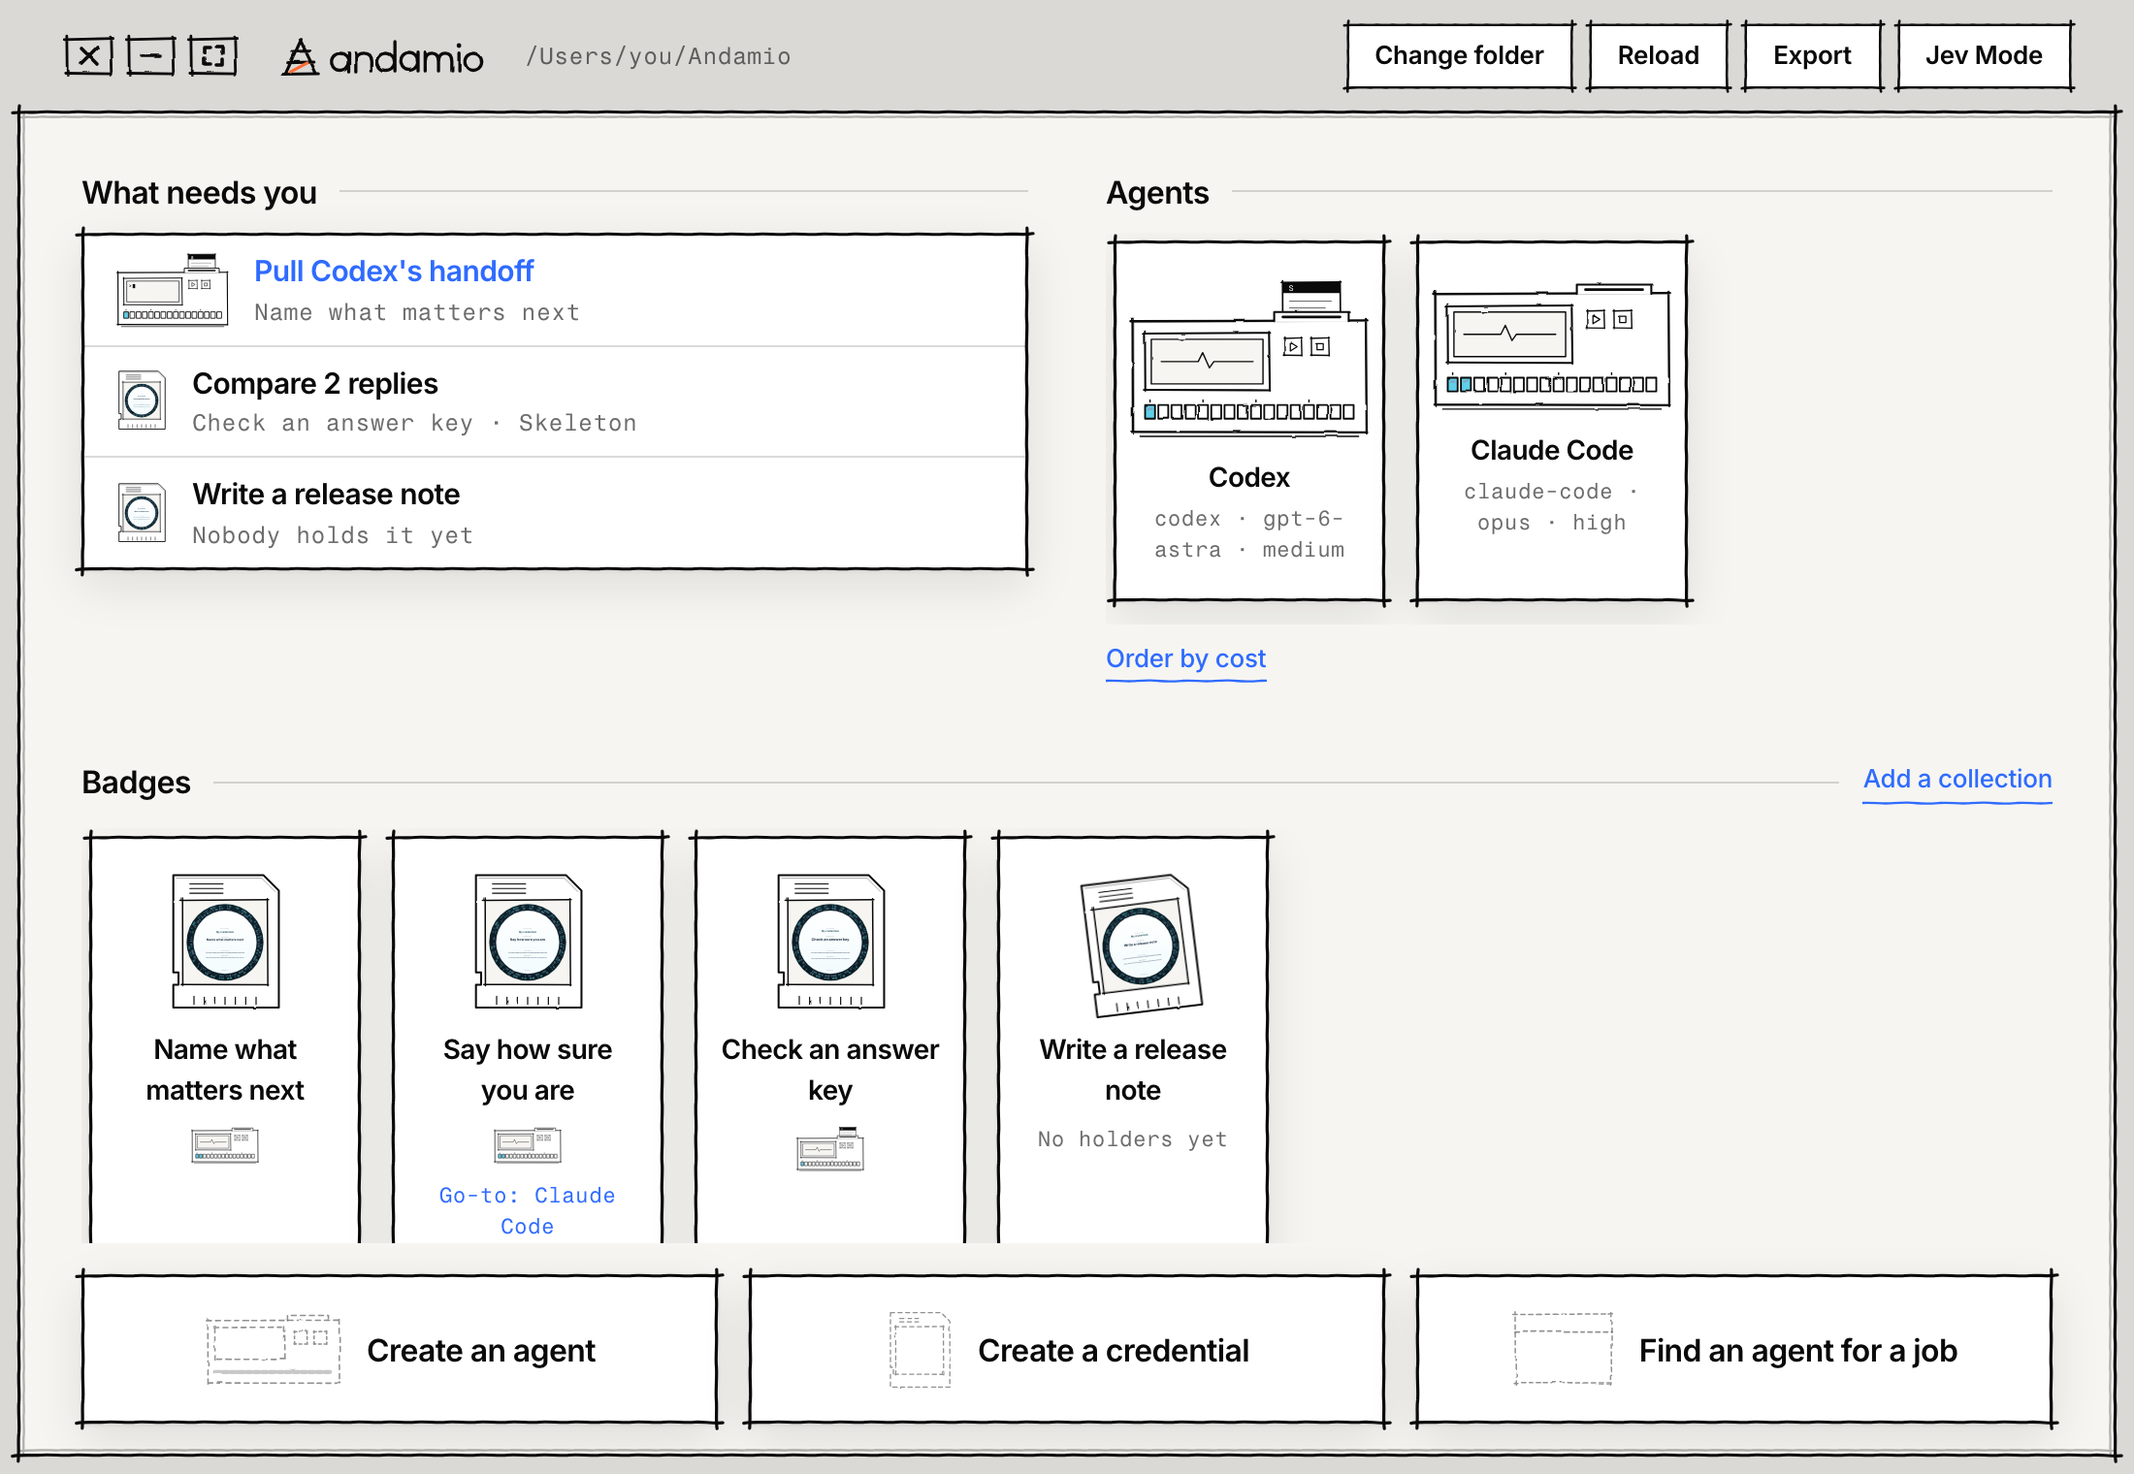
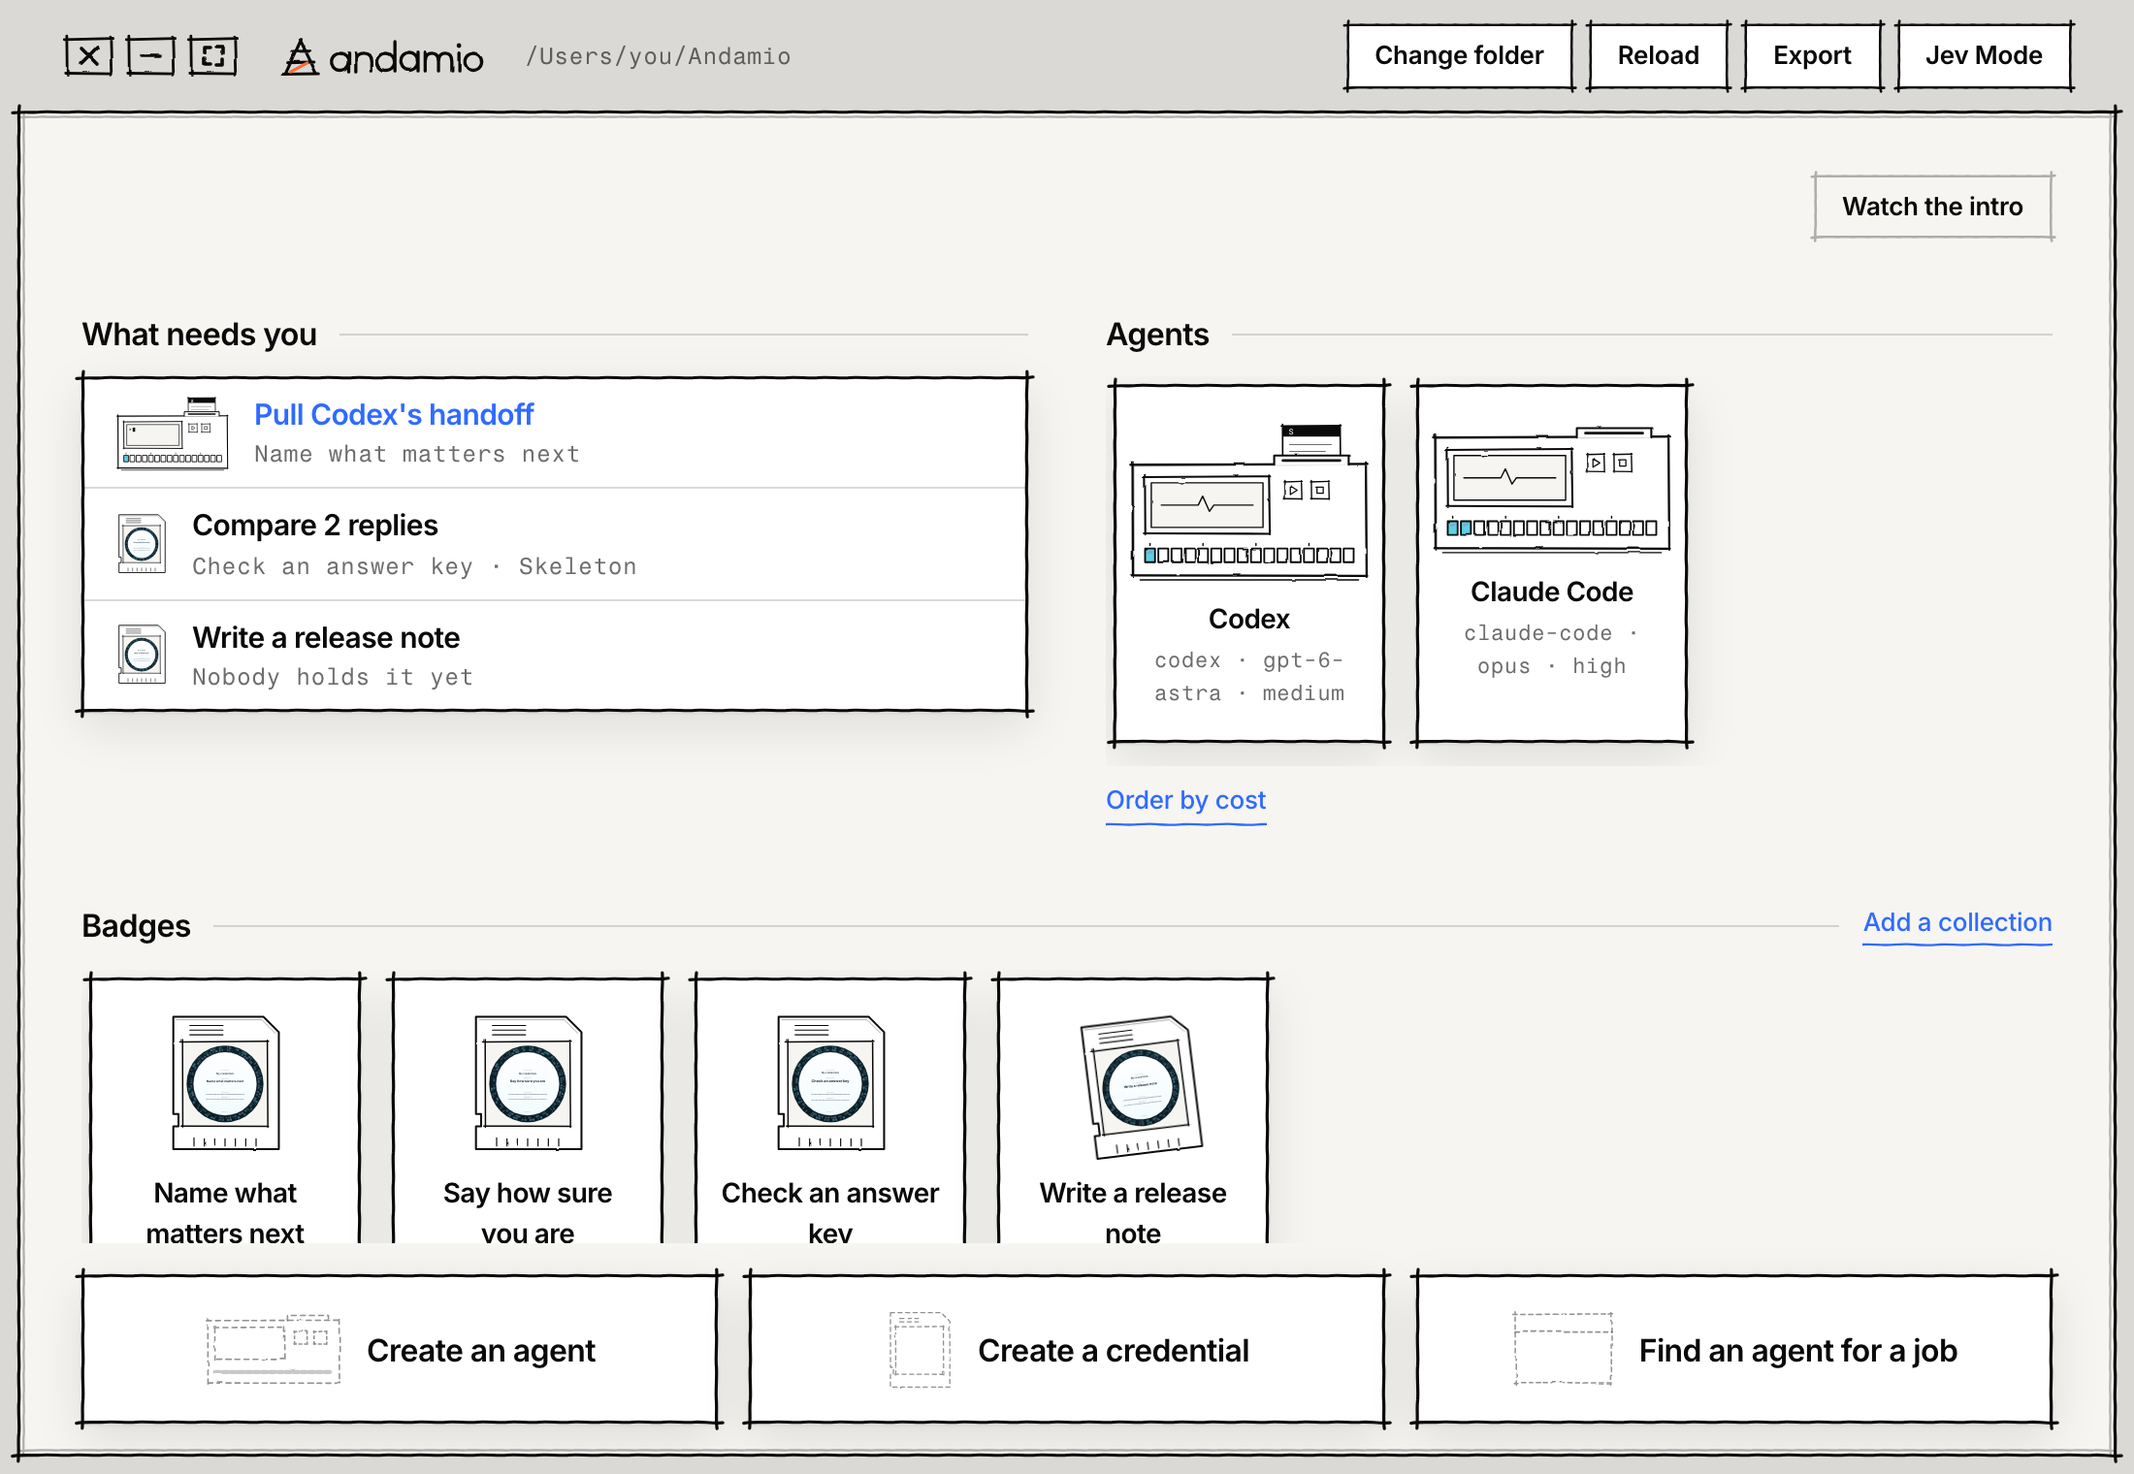
docs(guide): describe the intro and the new first run, with new and reshot screenshots

diff --git a/src/shots/shots.ts b/src/shots/shots.ts
@@ -1,6 +1,6 @@
 // The screenshot manifest (U3, U4, KTD6, KTD7, R19, R20): every picture in the user guide,
-// as data. Each shot names the guide page it illustrates, where the app opens (a route, or
-// the first-run gate), the sample folder it opens over, Jev Mode's state, what must be on
+// as data. Each shot names the guide page it illustrates, where the app opens (a route, the
+// first run's title card, or the folder gate), the sample folder it opens over, Jev Mode's state, what must be on
 // screen for the picture to count (`expect`), an optional clip and optional in-page steps.
 // `npm run site:shots` renders each one to site/public/shots/<id>.png through shots.html.
 //
@@ -76,13 +76,21 @@ export interface Clip {
  */
 export const SHOT_SCALE = 2;
 
+/** The two places a shot opens before any folder: the first run's title card, or the folder gate. */
+export type ShotStart = "intro" | "gate";
+
 export interface Shot {
   /** The picture's file name under site/public/shots, kebab-case and unique. */
   id: string;
   /** The guide page it illustrates, as that page's entry id. */
   page: `${PartId}/${string}`;
-  /** Where the app opens: a route, or "gate" for the first-run folder screen. */
-  route: Route | "gate";
+  /**
+   * Where the app opens: a route; "intro" for a first run, at the intro's title card (no
+   * folder ever remembered); or "gate" for the folder gate with no intro, as a remembered
+   * folder that has gone missing opens. Under the harness's reduced motion the intro shows
+   * its stills, which a shot steps through with Next.
+   */
+  route: Route | ShotStart;
   seed: SeedVariant;
   jev: JevState;
   expect: Expect;
@@ -339,14 +347,100 @@ const CASE_TO_READING: readonly Step[] = [
   { waitFor: { text: "Cut-offs fitted to your verdicts" } },
 ];
 
+/**
+ * How many stills the intro steps through under reduced motion (SCENES in
+ * src/intro/timeline.ts, spelled out so this file stays plain data; shots.test.ts checks it).
+ * Next on the last one ends the film.
+ */
+export const SCENE_COUNT = 5;
+
+/** The newcomer's line on the play beat, in the first run's pictures. Six words or fewer, so the badge's name is the whole line. */
+const FIRST_LINE = "Every fix ships with a test";
+
+/** The first run from the title card, still by still under reduced motion, to the play beat. */
+const INTRO_TO_PLAY: readonly Step[] = [
+  { click: { button: "Begin" } },
+  ...Array.from({ length: SCENE_COUNT }, () => ({ click: { button: "Next" } })),
+  { waitFor: { text: "What would a good result look like" } },
+];
+
+/** On from the play beat, with the line typed, to the folder gate that will save it. */
+const INTRO_TO_GATE: readonly Step[] = [
+  ...INTRO_TO_PLAY,
+  { fill: { label: "What good looks like" }, value: FIRST_LINE },
+  { click: { button: "Make it a badge" } },
+  { waitFor: { text: "Choose folder" } },
+];
+
+/** On from the gate to Home, where the badge the line became has its row lit. */
+const INTRO_TO_HOME: readonly Step[] = [...INTRO_TO_GATE, { click: { button: "Choose folder" } }, { waitFor: { selector: ".need.lit" } }];
+
 export const SHOTS: readonly Shot[] = [
   {
+    id: "intro-title",
+    page: "getting-started/intro",
+    route: "intro",
+    seed: "empty",
+    jev: "off",
+    expect: { text: "Begin" },
+    // Begin is enabled once the film has loaded behind the card.
+    steps: [{ waitFor: { selector: ".intro-title button.primary:not([disabled])" } }],
+  },
+  {
+    // The third still: what good looks like.
+    id: "intro-still",
+    page: "getting-started/intro",
+    route: "intro",
+    seed: "empty",
+    jev: "off",
+    expect: { text: "Next" },
+    steps: [{ click: { button: "Begin" } }, { click: { button: "Next" } }, { click: { button: "Next" } }],
+  },
+  {
+    id: "intro-play",
+    page: "getting-started/intro",
+    route: "intro",
+    seed: "empty",
+    jev: "off",
+    expect: { text: "Make it a badge" },
+    steps: [...INTRO_TO_PLAY, { fill: { label: "What good looks like" }, value: FIRST_LINE }],
+  },
+  {
+    // The gate after the play beat: the folder it picks is where the badge is saved.
     id: "first-run",
     page: "getting-started/your-folder",
-    route: "gate",
+    route: "intro",
     seed: "empty",
     jev: "off",
     expect: { text: "Choose folder" },
+    steps: INTRO_TO_GATE,
+  },
+  {
+    id: "folder-missing",
+    page: "help/when-something-breaks",
+    route: "gate",
+    seed: "empty",
+    jev: "off",
+    expect: { selector: ".gate-error" },
+  },
+  {
+    id: "first-badge-home",
+    page: "getting-started/first-test",
+    route: "intro",
+    seed: "empty",
+    jev: "off",
+    expect: { text: "Add its task" },
+    steps: INTRO_TO_HOME,
+  },
+  {
+    // The lit row opens the badge's task, with the prompt that asks an agent for one.
+    id: "first-badge-task",
+    page: "getting-started/first-test",
+    route: "intro",
+    seed: "empty",
+    jev: "off",
+    expect: { text: "Suggest a task" },
+    steps: [...INTRO_TO_HOME, { click: { selector: ".need.lit" } }, { waitFor: { text: "Suggest a task" } }],
   },
   {
     id: "home-empty",
@@ -1136,12 +1230,12 @@ export const SHOTS: readonly Shot[] = [
 /** Marks a route kind no shot pictures yet. */
 export const NOT_PICTURED = "not pictured";
 
-/** Every place the app can open: the gate, home, each deck and each item. */
-export type RouteKind = "gate" | "home" | `deck:${DeckRoute["deck"]}` | `item:${ItemRoute["item"]}`;
+/** Every place the app can open: the intro, the gate, home, each deck and each item. */
+export type RouteKind = ShotStart | "home" | `deck:${DeckRoute["deck"]}` | `item:${ItemRoute["item"]}`;
 
 /** A shot's route kind, as the coverage map keys it. */
-export function routeKind(route: Route | "gate"): RouteKind {
-  if (route === "gate") return "gate";
+export function routeKind(route: Route | ShotStart): RouteKind {
+  if (typeof route === "string") return route;
   if (route.view === "home") return "home";
   if (route.view === "deck") return `deck:${route.deck}`;
   return `item:${route.item}`;
@@ -1149,7 +1243,8 @@ export function routeKind(route: Route | "gate"): RouteKind {
 
 /** For each route kind, the shots that picture it, or NOT_PICTURED. Every shot is listed under its own kind. */
 export const COVERAGE: Record<RouteKind, readonly string[] | typeof NOT_PICTURED> = {
-  gate: ["first-run"],
+  intro: ["intro-title", "intro-still", "intro-play", "first-run", "first-badge-home", "first-badge-task"],
+  gate: ["folder-missing"],
   home: ["home-empty", "home", "home-needs", "router-door", "home-collections"],
   "deck:credential": ["credential-start", "credential-target"],
   "deck:agent": ["first-test-agent", "first-test-hand", "first-test-judge", "first-test-home", "agent-new"],

diff --git a/site/tests/content.test.ts b/site/tests/content.test.ts
@@ -4,7 +4,7 @@
 // src/shots/shots.ts, and the check fails on:
 //
 // - a <UI> label that no longer matches a string literal, template literal or JSX text in
-//   src/ui, src/domain or src/jev. Source is read through the TypeScript parser, so a label
+//   src/ui, src/domain, src/jev or src/intro. Source is read through the TypeScript parser, so a label
 //   that lives only in a comment never counts, and test files and test stubs are skipped.
 //   A templated label escapes its placeholder's braces (`Pull \{agent\}'s handoff`) and
 //   matches any `${…}` (or JSX `{…}`) in that place;
@@ -34,7 +34,7 @@ const SITE = join(ROOT, "site");
 const PUBLIC = join(SITE, "public");
 const SHOTS_DIR = join(PUBLIC, "shots");
 /** Where the app's labels live (KTD8). */
-const LABEL_DIRS = ["src/ui", "src/domain", "src/jev"];
+const LABEL_DIRS = ["src/ui", "src/domain", "src/jev", "src/intro"];
 
 // ---------------------------------------------------------------------------
 // Labels in the app's source
@@ -300,7 +300,7 @@ describe("the content check, on fixture pages", () => {
 
   it("fails a label the app does not show, naming the page and the label", () => {
     expect(check("Click <UI>Make the robot</UI>.\n")).toEqual([
-      "getting-started/fixture: <UI>Make the robot</UI> matches no label in src/ui, src/domain, src/jev",
+      "getting-started/fixture: <UI>Make the robot</UI> matches no label in src/ui, src/domain, src/jev, src/intro",
     ]);
   });
 
@@ -332,9 +332,9 @@ describe("the content check, on fixture pages", () => {
     const strict: Context = { ...ctx, labels: only };
     const problems = pageProblems({ id: "getting-started/fixture", text: FRONT() + "<UI>Make the robot</UI> <UI>Hand over the robot</UI> <UI>Robot card</UI> <UI>Keep me</UI>\n" }, strict);
     expect(problems).toEqual([
-      "getting-started/fixture: <UI>Make the robot</UI> matches no label in src/ui, src/domain, src/jev",
-      "getting-started/fixture: <UI>Hand over the robot</UI> matches no label in src/ui, src/domain, src/jev",
-      "getting-started/fixture: <UI>Robot card</UI> matches no label in src/ui, src/domain, src/jev",
+      "getting-started/fixture: <UI>Make the robot</UI> matches no label in src/ui, src/domain, src/jev, src/intro",
+      "getting-started/fixture: <UI>Hand over the robot</UI> matches no label in src/ui, src/domain, src/jev, src/intro",
+      "getting-started/fixture: <UI>Robot card</UI> matches no label in src/ui, src/domain, src/jev, src/intro",
     ]);
   });
 

diff --git a/src/shots/shots.test.ts b/src/shots/shots.test.ts
@@ -10,7 +10,8 @@ import type { Route } from "../ui/routes";
 import { PART_IDS } from "../../site/src/parts";
 import { startShot } from "./harness";
 import { sampleFolder, sampleStorage } from "./seed";
-import { COVERAGE, NOT_PICTURED, SAMPLE_IMAGES, SHOTS, routeKind, type Shot } from "./shots";
+import { SCENES } from "../intro/timeline";
+import { COVERAGE, NOT_PICTURED, SAMPLE_IMAGES, SCENE_COUNT, SHOTS, routeKind, type Shot, type ShotStart } from "./shots";
 
 const KEBAB = /^[a-z0-9]+(?:-[a-z0-9]+)*$/;
 
@@ -20,8 +21,8 @@ const CREDENTIAL_PARTS = ["name", "targets", "task", "rubric", "look"];
 const AGENT_PARTS = ["name", "repo", "notes", "params"];
 
 /** Why a route is not a Route the shell can open over this folder, or [] when it is. */
-function routeProblems(route: Route | "gate", state: FolderState): string[] {
-  if (route === "gate") return [];
+function routeProblems(route: Route | ShotStart, state: FolderState): string[] {
+  if (typeof route === "string") return [];
   const r = route as unknown as Record<string, unknown>;
   const out: string[] = [];
   const keys = new Set(state.credentials.map(credentialKey));
@@ -188,9 +189,15 @@ describe("the shot manifest", () => {
   });
 });
 
+describe("the intro's stills", () => {
+  it("are as many as the film's scenes, so the first-run shots step to the play beat", () => {
+    expect(SCENE_COUNT).toBe(SCENES.length);
+  });
+});
+
 describe("the coverage map", () => {
-  it("has an entry for the gate, home and every deck and item kind", () => {
-    const kinds = ["gate", "home", ...DECK_KINDS.map((k) => `deck:${k}`), ...ITEM_KINDS.map((k) => `item:${k}`)];
+  it("has an entry for the intro, the gate, home and every deck and item kind", () => {
+    const kinds = ["intro", "gate", "home", ...DECK_KINDS.map((k) => `deck:${k}`), ...ITEM_KINDS.map((k) => `item:${k}`)];
     expect(Object.keys(COVERAGE).sort()).toEqual(kinds.sort());
   });
 
@@ -220,6 +227,7 @@ describe("the coverage map", () => {
   });
 
   it("names a route kind as the shell does", () => {
+    expect(routeKind("intro")).toBe("intro");
     expect(routeKind("gate")).toBe("gate");
     expect(routeKind({ view: "home" })).toBe("home");
     expect(routeKind({ view: "deck", deck: "jev" })).toBe("deck:jev");

diff --git a/src/shots/harness.tsx b/src/shots/harness.tsx
@@ -20,7 +20,7 @@ import { createRoot } from "react-dom/client";
 import type { Jev } from "../jev/jev";
 import type { Storage } from "../storage/storage";
 import { AppShell } from "../ui/AppShell";
-import { FolderGate } from "../ui/FolderGate";
+import { FolderGate, type DataFolderStatus } from "../ui/FolderGate";
 import { JevProvider } from "../ui/jevContext";
 import { pendingStorageKey } from "../ui/pendingTests";
 import { FolderProvider } from "../ui/useFolderState";
@@ -100,14 +100,18 @@ export async function startShot(root: HTMLElement, search: string, shots: readon
 
 /** The app as src/App.tsx mounts it, over the shot's sample folder and Jev Mode. */
 function ShotApp({ shot, storage, jev }: { shot: Shot; storage: Storage; jev: Jev }) {
-  const gate = shot.route === "gate";
+  const route = shot.route;
+  // "intro" is a first run (no folder ever remembered); "gate" is a remembered folder gone
+  // missing, which shows the gate with its error and no intro.
+  const status: DataFolderStatus =
+    route === "intro" ? { status: "none" } : route === "gate" ? { status: "missing", remembered: SAMPLE_FOLDER } : { status: "ready", folder: SAMPLE_FOLDER };
   return (
     <WindowFrameContext.Provider value="maximized">
       <JevProvider jev={jev}>
-        <FolderGate getFolder={() => Promise.resolve(gate ? null : SAMPLE_FOLDER)} pickFolder={() => Promise.resolve(SAMPLE_FOLDER)}>
+        <FolderGate getFolder={() => Promise.resolve(status)} pickFolder={() => Promise.resolve(SAMPLE_FOLDER)}>
           {(folder, changeFolder) => (
             <FolderProvider key={folder} storage={storage} folder={folder}>
-              <AppShell onChangeFolder={() => void changeFolder()} initialRoute={shot.route === "gate" ? undefined : shot.route} />
+              <AppShell onChangeFolder={() => void changeFolder()} initialRoute={typeof route === "string" ? undefined : route} />
             </FolderProvider>
           )}
         </FolderGate>

diff --git a/site/README.md b/site/README.md
@@ -44,7 +44,7 @@ description: Copy a badge's handoff into your assistant and bring back its reply
 - Write for someone who knows their AI assistant but not this app: second person, short sentences, the app's own words (CONCEPTS.md), no hype, no heading periods, and never the word "machine".
 
 `npm test` and `npm run site:build` run `tests/content.test.ts`, which fails when:
-- a `<UI>` label matches no string, template literal or JSX text in `src/ui/`, `src/domain/` or `src/jev/`;
+- a `<UI>` label matches no string, template literal or JSX text in `src/ui/`, `src/domain/`, `src/jev/` or `src/intro/`;
 - a picture or internal link points at nothing;
 - a screenshot in the manifest is used by no page, or a PNG has no manifest entry;
 - a heading ends in a period, a page says "machine", or frontmatter is missing.
@@ -74,7 +74,7 @@ Screenshots are data in `src/shots/shots.ts`. Each one opens the real app in a d
 1. Add an entry:
    - `id` names the picture;
    - `page` names the guide page that shows it;
-   - `route` says where the app opens, or `"gate"` for the first-run screen;
+   - `route` says where the app opens: a route, `"intro"` for a first run's title card, or `"gate"` for the folder gate as a missing folder shows it, with no intro. Shots run with reduced motion, so the intro shows its stills and a shot steps through them with `Next`;
    - `seed` picks the folder, `"empty"` or `"full"`;
    - `jev` is `"off"` (How to pages) or `"on"`;
    - `expect` is text or a selector that must be on screen, so a wrong route fails instead of photographing the "Not in the folder" card;
